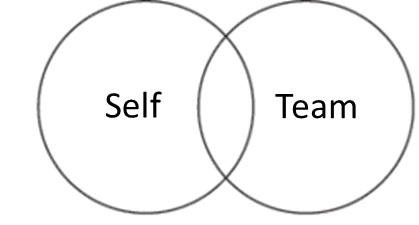
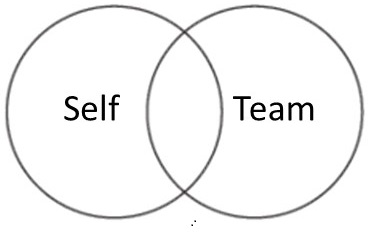
Final changes to questionnaires

Changed region(s): [[0.0, 0.0, 1.0, 0.9644], [0.1562, 0.2178, 0.4375, 0.7467]]

diff --git a/App04Questionnaires/Quest07a.html b/App04Questionnaires/Quest07a.html
@@ -1,0 +1,48 @@
+{{ block content }}
+{% block css %}
+<link rel="stylesheet" type="text/css">
+{% endblock %}
+
+<div class="container">
+  <div class="row justify-content-center">
+    <div class="col-md-12">
+      <div class="card border-0 shadow-sm mt-12" style="background-color: #f8f9fa;">
+        <div class="card-body">
+          <h2 class="card-title text-center"></h2>
+          <p class="card-text text-center">
+              <b>Please state how much you agree with the following statements:</b><br>
+        <table class="table" style="text-align: center;  vertical-align: middle;">
+            <tr>
+                <td style="width: 30%;"></td>
+                <td style="width: 6%;">Disagree strongly</td>
+                <td style="width: 6%;"></td>
+                <td style="width: 6%;"></td>
+                <td style="width: 6%;"></td>
+                <td style="width: 6%;">Agree strongly</td>
+            </tr>
+            <tr>
+                <td style="width: 30%;"></td>
+                <td style="width: 6%;">1</td>
+                <td style="width: 6%;">2</td>
+                <td style="width: 6%;">3</td>
+                <td style="width: 6%;">4</td>
+                <td style="width: 6%;">5</td>
+            </tr>
+            {{ for field in form }}
+
+            <tr>
+                    <td style="text-align: left;">{{ field.label }}</td>
+                    {{ for choice in field }}
+                        <td>{{ choice }}</td>
+                    {{ endfor }}
+                </tr>
+            {{ endfor }}
+        </table>
+        </div>
+      </div>
+    </div>
+  </div>
+</div>
+<br>
+{{next_button}}
+{{ endblock }}

diff --git a/App02PostIntro/StudyIntroduction3.html b/App02PostIntro/StudyIntroduction3.html
@@ -25,9 +25,7 @@
                 {{ formfield 'comprehension1' }}
                 {{ formfield 'comprehension2' }}
                 {{ formfield 'comprehension3' }}
-                {{ formfield_errors "comprehension4a" }}
-                {{ formfield_errors "comprehension4b" }}
-                {{ formfield_errors "comprehension4c" }}
+
 
                 <br>
                 <p><strong>What does your compensation depend on? Please select <u>all</u> applicable options.</strong></p>
@@ -38,6 +36,23 @@
                 <label><input type="checkbox" name="comprehension4c" class="form-check-input"/>&nbsp; &nbsp; Fewest number of hours worked by a member of your team on Project A.</label>
                 <br>
                 <br>
+
+              {{ if form.comprehension4a.errors }}
+                <div class="alert alert-danger">
+                    {{ form.comprehension4a.errors.0 }}
+                </div>
+                {{ else }}
+                {{ if form.comprehension4b.errors }}
+                <div class="alert alert-danger">
+                    {{ form.comprehension4b.errors.0 }}
+                {{ else }}
+                {{ if form.comprehension4c.errors }}
+                <div class="alert alert-danger">
+                    {{ form.comprehension4c.errors.0 }}
+                {{ endif }}
+                {{ endif }}
+                {{ endif }}
+
     </div>
 
     <br>

diff --git a/App02PostIntro/EndVVC.html b/App02PostIntro/EndVVC.html
@@ -23,8 +23,6 @@
 
       img {
         width: 100%;                 /* Makes images responsive to their container's size */
-        max-width: 180px;            /* Limits image width to 180px */
-        height: auto;                /* Maintains aspect ratio */
       }
 </style>
 
@@ -37,9 +35,9 @@
      <p><strong>Please select the image that best describes the relationship between you and your team.</strong></p>
     <div class="image-container">
      {{ for image in image_data }}
-        <label class="image-label">
+        <label>
             <br>
-            <img src="{{ static image.path }}" width="180px">
+            <img src="{{ static image.path }}">
             <br>
             <input type="radio" name="team_cohesion" value="{{ image.name }}" class="persist">
         </label>

diff --git a/App04Questionnaires/__init__.py b/App04Questionnaires/__init__.py
@@ -6,13 +6,16 @@ doc = """
 Your app description
 """
 
+
 class Constants(BaseConstants):
     name_in_url = 'App04Questionnaires'
     players_per_group = 4
     num_rounds = 1
 
+
 class Subsession(BaseSubsession):
     pass
+
 
 class Group(BaseGroup):
     pass
@@ -84,7 +87,7 @@ class Player(BasePlayer):
     negative_rp_3 = make_field2(
         'If I am treated very unfairly, I will seek revenge at the first opportunity, even if it costs me to do so.')
     trust_1_positive = make_field2('I am convinced that most people have good intentions.')
-    trust_2_negative = make_field2("Nowadays, you can't rely on anyone anymore.")
+    trust_2_negative = make_field2("You can't rely on anyone nowadays.")
     trust_3_positive = make_field2('In general, people can be trusted.')
     math = make_field2('I am good at mathematics.')
     time_2 = make_field2('I tend to procrastinate tasks, even though I know it would be better to do them right away.')
@@ -92,102 +95,111 @@ class Player(BasePlayer):
     positive_rp_2 = make_field3("")
     altruism_2 = models.IntegerField(label="", min=0, max=1000)
     collective_orientation_1_p = make_field("I find working on team projects very satisfying.")
-    collective_orientation_2_n = make_field("I would rather act on my own than wait for input from others.")
+    collective_orientation_2_n = make_field(
+        "I would rather take action on my own than to wait around for others' input.")
     collective_orientation_3_n = make_field(
-        "I prefer to complete a task from start to finish without the support of others.")
+        "I prefer to complete a task from beginning to end with no assistance from others.")
     collective_orientation_4_p = make_field("Teams usually work very effectively.")
     collective_orientation_5_n = make_field(
-        "I think it is usually better to take the bull by the horns and do something myself than to wait for input from others.")
-    collective_orientation_6_n = make_field("For most tasks, I would rather work alone than be part of a group.")
-    collective_orientation_7_n = make_field("I can usually achieve more when I work alone.")
-    collective_orientation_8_n = make_field("I think it is generally more productive to work alone than with others.")
-    collective_orientation_9_p = make_field("I enjoy working with others.")
-    collective_orientation_10_n = make_field("I do not like having to rely on other team members.")
+        "I think it is usually better to take the bull by the horns and do something yourself, rather than to wait for input from others.")
+    collective_orientation_6_n = make_field("For most tasks, I would rather work alone than as part of a group.")
+    collective_orientation_7_n = make_field(
+        "I find it easy to negotiate with others who hold a different viewpoint than I hold.")
+    collective_orientation_8_n = make_field("I can usually perform better when I work on my own.")
+    collective_orientation_9_n = make_field(
+        "I always ask for more information from others before making any important decision.")
+    collective_orientation_10_n = make_field(
+        "I find that it is often more productive to work on my own than with others.")
     collective_orientation_11_n = make_field(
-        "If I disagree with other team members, I tend to follow my own gut feeling.")
+        "When solving a problem, it is very important to make your own decision and stick by it.")
     collective_orientation_12_n = make_field(
-        "If I have a different opinion than another team member, I usually try to stick to my own opinion.")
+        "If I disagree with other team members, I tend to go with my own gut feelings.")
     collective_orientation_13_n = make_field(
-        "It is important to stick to your own opinion, especially when others around you try to persuade you to change it.")
-    collective_orientation_14_n = make_field("When others disagree, it is important to stand firm and not give in.")
+        "When I have a different opinion than another team member, I usually stick to my own opinion.")
+    collective_orientation_14_n = make_field(
+        "It is important to stick to your own decisions, even when others around you are trying to get you to change.")
     collective_orientation_15_n = make_field(
-        "Even in teamwork, I believe you should always do what you think is right.")
-    collective_orientation_16_n = make_field(
-        "If I am convinced of something, I stick to my opinion, no matter what other team members say.")
+        "When others disagree, it is important to hold one's own ground and not give in.")
     attention4 = make_field(
         'Please select the option "strongly agree" to show that you are answering the questions attentively.')
-    gaze_anxiety_1 = make_field4('Giving a speech.')
-    gaze_anxiety_2 = make_field4('Talking with a group of people at a party.')
-    gaze_anxiety_3 = make_field4('Taking the floor at a meeting.')
-    gaze_anxiety_4 = make_field4('Speaking in a discussion with several people.')
-    gaze_anxiety_5 = make_field4('Speaking with a cashier while shopping.')
-    gaze_anxiety_6 = make_field4('Being introduced to someone.')
-    gaze_anxiety_7 = make_field4('Greeting an acquaintance passing by on the street.')
-    gaze_anxiety_8 = make_field4('Talking with someone you do not know well.')
-    gaze_anxiety_9 = make_field4('Talking with someone you find attractive.')
-    gaze_anxiety_10 = make_field4('Going on a date with someone you do not know well.')
-    gaze_anxiety_11 = make_field4('Being in a familiar situation with someone close to you.')
-    gaze_anxiety_12 = make_field4('Discussing the quality of your work with an authority figure.')
-    gaze_anxiety_13 = make_field4('Having an everyday conversation with a close family member.')
-    gaze_anxiety_14 = make_field4('Listening to someone talk to you.')
-    gaze_anxiety_15 = make_field4('Talking with someone who is listening to you.')
-    gaze_anxiety_16 = make_field4('Expressing a disagreement.')
-    gaze_anxiety_17 = make_field4('Receiving a compliment.')
-    psychological_safety_1 = make_field('I was not afraid to be myself during the video meeting.')
-    psychological_safety_2 = make_field('I was afraid to express my opinion during the video meeting.')
-    psychological_safety_3 = make_field('There was a threatening atmosphere during the video meeting.')
+    psychological_safety_1 = make_field('I am not afraid to be myself during the video meeting.')
+    psychological_safety_2 = make_field('I am afraid to express my opinion in the meeting.')
+    psychological_safety_3 = make_field('There is a threatening atmosphere in the meeting.')
     psychological_availability_1 = make_field(
-        'I am confident that I was able to handle competing demands during the video meeting.')
+        'I am confident that I am able to manage competing demands in a meeting.')
     psychological_availability_2 = make_field(
-        'I am confident that I was able to deal with problems that arose during the video meeting.')
+        'I am confident that I am able to deal with problems that arise in the meeting.')
     psychological_availability_3 = make_field(
-        'I am confident that I was able to think clearly during the video meeting.')
+        'I am confident that I am can think clearly in the meeting.')
     psychological_availability_4 = make_field(
-        'I am confident that I was able to show the right emotions during the video meeting.')
+        'I am confident that I am able to show the right emotions in the meeting.')
     psychological_availability_5 = make_field(
-        'I am confident that I was able to cope with the physical demands during the video meeting.')
-    engagement_1 = make_field('I was full of energy during the video meeting.')
-    engagement_2 = make_field('The video meeting was useful and meaningful.')
-    engagement_3 = make_field('Time flew by while I was in the video meeting.')
-    engagement_4 = make_field('I felt energetic and vigorous during the video meeting.')
-    engagement_5 = make_field('I was excited about the video meeting.')
-    engagement_6 = make_field('I forgot everything around me while I was in the video meeting.')
-    engagement_7 = make_field('The video meeting inspired me.')
-    engagement_8 = make_field('When I woke up in the morning, I looked forward to the video meeting.')
-    engagement_9 = make_field('I felt happy when I worked intensively during the video meeting.')
-    engagement_10 = make_field('I am proud of my work in the video meeting.')
-    engagement_11 = make_field('I was completely absorbed in my work in the video meeting.')
-    engagement_12 = make_field('When I was in the video meeting, I could work for a very long time.')
-    engagement_13 = make_field('The video meeting was a challenge for me.')
-    engagement_14 = make_field('The video meeting swept me away.')
-    engagement_15 = make_field('I was mentally very resilient in the video meeting.')
-    engagement_16 = make_field('I found it difficult to tear myself away from the video meeting.')
-    engagement_17 = make_field('I persevered in the video meeting, even when things were not going well.')
+        'I am confident that I can cope with the physical demands of the meeting.')
+
+    big5_1 = make_field(
+        'I see myself as someone who is reserved.')
+    big5_2 = make_field(
+        'I see myself as someone who is generally trusting.')
+    big5_3 = make_field(
+        'I see myself as someone who tends to be lazy.')
+    big5_4 = make_field(
+        'I see myself as someone who is relaxed, handles stress well.')
+    big5_5 = make_field(
+        'I see myself as someone who has few artistic interests.')
+    big5_6 = make_field(
+        'I see myself as someone who is outgoing, sociable.')
+    big5_7 = make_field(
+        'I see myself as someone who tends to find fault with others.')
+    big5_8 = make_field(
+        'I see myself as someone who does a thorough job.')
+    big5_9 = make_field(
+        'I see myself as someone who gets nervous easily.')
+    big5_10 = make_field(
+        'I see myself as someone who has an active imagination.')
+
+    engagement_1 = make_field('In the meeting I am full of exuberant energy.')
+    engagement_2 = make_field('The meeting is useful and meaningful.')
+    engagement_3 = make_field('While I am in the meeting, time flies by.')
+    engagement_4 = make_field('I feel fit and energetic during the meeting.')
+    engagement_5 = make_field('I am enthusiastic about my meeting.')
+    engagement_6 = make_field('While I am in the meeting, I forget everything around me.')
+    engagement_7 = make_field('The meeting inspires me.')
+    engagement_8 = make_field('When I get up in the morning, I look forward to my meetings.')
+    engagement_9 = make_field('I feel happy when I work intensively during the meeting.')
+    engagement_10 = make_field('I am proud of my work in the meeting.')
+    engagement_11 = make_field('I am completely absorbed in my work in the meeting.')
+    engagement_12 = make_field('When I am in the meeting, I can stay in it for a very long tine.')
+    engagement_13 = make_field('The meeting is a challenge for me.')
+    engagement_14 = make_field('The meeting carries me away.')
+    engagement_15 = make_field('I am mentally very resilient in the meeting.')
+    engagement_16 = make_field('I find it difficult to detach myself from the me.')
+    engagement_17 = make_field('I always persevere in the meeting, even when things are not going so well.')
     engagement_18 = make_field(
-        'The fulfillment of my task in the video meeting was so captivating that I forgot everything else.')
-    engagement_19 = make_field('I often thought about other things while I was in the video meeting.')
-    engagement_20 = make_field('I was rarely distracted while I was in the video meeting.')
-    engagement_21 = make_field('Time passed quickly while I was in the video meeting.')
-    engagement_22 = make_field('I was very committed in the video meeting.')
-    engagement_23 = make_field('I was excited to do well in the video meeting.')
-    engagement_24 = make_field('I often felt emotionally detached from the video meeting.')
-    engagement_25 = make_field('My own feelings depended on how well I did in the video meeting.')
-    engagement_26 = make_field('I expended a lot of energy to do well in the video meeting.')
-    engagement_27 = make_field('I stayed in the video meeting until the work was done.')
-    engagement_28 = make_field('I spent longer in the video meeting than necessary when possible.')
-    engagement_29 = make_field('I took work from the video meeting home to complete it.')
-    engagement_30 = make_field('I avoided working too hard in the video meeting.')
+        'Completing my task in the meeting is so engrossing that I forget everything else.')
+    engagement_19 = make_field('I often think about other things when I am in the meeting.')
+    engagement_20 = make_field('I am rarely distracted when I am in the meeting.')
+    engagement_21 = make_field('Time passes quickly when I am in the meeting.')
+    engagement_22 = make_field('I put a lot of effort into the meeting.')
+    engagement_23 = make_field('I am excited when I do well in my meeting.')
+    engagement_24 = make_field('I often feel emotionally detached from the meeting.')
+    engagement_25 = make_field('My own feelings depend on how well I do in the meeting.')
+    engagement_26 = make_field('I expend a lot of energy to get through the meeting.')
+    engagement_27 = make_field('I stay until the work in the meeting is done.')
+    engagement_28 = make_field('I avoid working overtime in the meeting whenever possible.')
+    engagement_29 = make_field('I take work home from the meeting to complete it.')
+    engagement_30 = make_field('I avoid working too hard in the meeting.')
     age = models.IntegerField(label='Please enter your <strong>age</strong>.', min=18, max=65)
     gender = models.IntegerField(label='<br>Please enter your <strong>gender</strong>.',
-                                 choices=[[1, 'female'], [2, 'male'], [3, 'diverse']])
+                                 choices=[[1, 'male'], [2, 'female'], [3, 'transgender'], [4, 'non-binary'],
+                                          [5, 'prefer not to say']])
     ethnicity = models.IntegerField(
         label="<br>Please indicate which <strong>ethnicity</strong> you would <u>most likely</u> identify with.",
-        choices=[[1, 'Asian or Pacific'], [2, 'Black or African American'], [3, 'Hispanic or Latino'],
-                 [4, 'White or Caucasian']])
+        choices=[[1, 'Asian or Pacific Islander'], [2, 'Black or African American'], [3, 'Hispanic or Latino'],
+                 [4, 'White or Caucasian'], [5, 'Multiracial or Biracial'], [6, 'A race/ethnicity not listed here']])
     familiarity = models.IntegerField(
         label="<br>Please indicate whether you have <strong>encountered a member of your team before participating in this study</strong>.",
-        choices=[[1, 'No, never encountered before'], [2, 'Yes, encountered casually before'],
-                 [3, 'Yes, we know each other']])
+        choices=[[1, 'No, never met before'], [2, 'Yes, met in passing'],
+                 [3, 'Yes, we are acquaintances']])
 
     education = models.IntegerField(
         label="<br>What is the highest level of education you have completed?</br>",
@@ -198,9 +210,7 @@ class Player(BasePlayer):
         choices=[[1, 'a'], [2, 'b'], [3, 'c'],
                  [4, 'd']])
     random = models.CurrencyField()
-    attractiveness_rating = models.IntegerField(label='Rate the image from -5 to 5:',
-                                                choices=[-5, -4, -3, -2, -1, 0, 1, 2, 3, 4, 5],
-                                                widget=widgets.RadioSelect)
+
 
 # PAGES
 
@@ -258,6 +268,12 @@ class Quest07(Page):
     form_fields = ['altruism_2']
 
 
+class Quest07a(Page):
+    form_model = 'player'
+    form_fields = ['big5_1', 'big5_2', 'big5_3', 'big5_4', 'big5_5',
+                   'big5_6', 'big5_7', 'big5_8', 'big5_9', 'big5_10']
+
+
 class Quest08(Page):
     form_model = 'player'
 
@@ -267,10 +283,10 @@ class Quest08(Page):
         import random
         collective = ['collective_orientation_1_p', 'collective_orientation_2_n', 'collective_orientation_3_n',
                       'collective_orientation_4_p', "collective_orientation_5_n", "collective_orientation_6_n",
-                      "collective_orientation_7_n", "collective_orientation_8_n", "collective_orientation_9_p",
+                      "collective_orientation_7_n", "collective_orientation_8_n", "collective_orientation_9_n",
                       'collective_orientation_10_n', 'collective_orientation_11_n', 'collective_orientation_12_n',
                       'collective_orientation_13_n', 'collective_orientation_14_n', 'collective_orientation_15_n',
-                      'collective_orientation_16_n', 'attention4']
+                      'attention4']
         random.shuffle(collective)
         return collective
 
@@ -282,10 +298,7 @@ class Quest08(Page):
 
 class Quest09(Page):
     form_model = 'player'
-    form_fields = ['gaze_anxiety_1', 'gaze_anxiety_2', 'gaze_anxiety_3', 'gaze_anxiety_4', "gaze_anxiety_5",
-                   "gaze_anxiety_6", "gaze_anxiety_7", "gaze_anxiety_8", "gaze_anxiety_9", 'gaze_anxiety_10',
-                   'gaze_anxiety_11', 'gaze_anxiety_12', 'gaze_anxiety_13', 'gaze_anxiety_14', 'gaze_anxiety_15',
-                   'gaze_anxiety_16', 'gaze_anxiety_17']
+
 
 
 class QuestDemographics(Page):
@@ -342,12 +355,14 @@ class QuestEnd(Page):
             total_payoff=(200 + player.payoff_quests) * 0.03
         )
 
+
 class ResultsWaitPage(WaitPage):
     pass
+
 
 class Results(Page):
     pass
 
 
-page_sequence = [Quest02, Quest03, Quest04, Quest05, Quest06, Quest07, Quest08, Quest09, Quest10, Quest11,
+page_sequence = [Quest02, Quest03, Quest04, Quest05, Quest06, Quest07, Quest07a, Quest08, Quest10, Quest11,
                  QuestDemographics, QuestEnd]

diff --git a/App02PostIntro/__init__.py b/App02PostIntro/__init__.py
@@ -158,8 +158,7 @@ class EndVVC(Page):
             'Inclusion3.jpg',
             'Inclusion4.jpg',
             'Inclusion5.jpg',
-            'Inclusion6.jpg',
-            'Inclusion7.jpg',
+            'Inclusion6.jpg'
         ]
         return dict(image_data=make_image_data(image_names))
 
